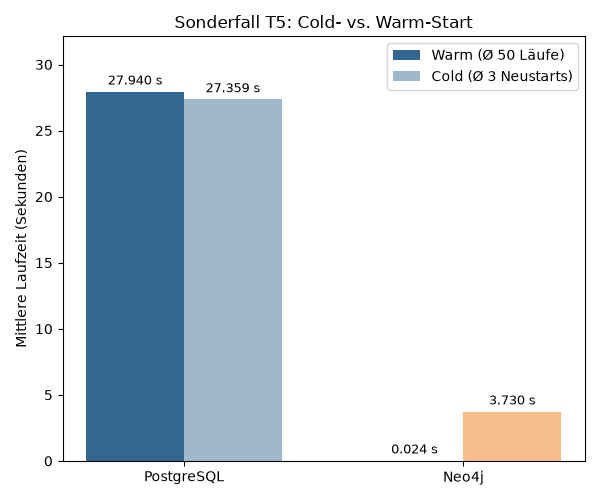
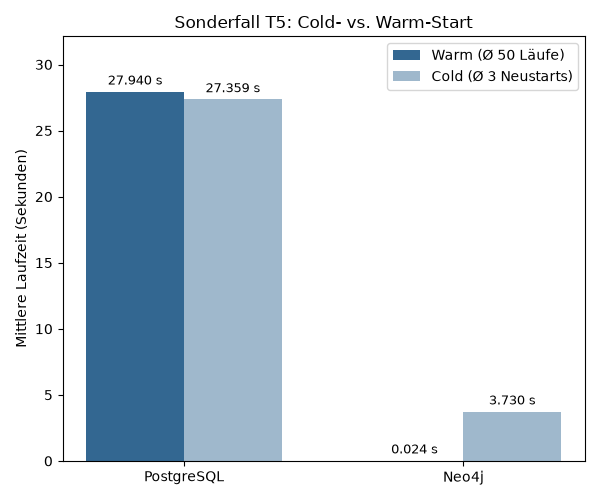
changes latex

Changed region(s): [[0.75, 0.81, 0.96, 0.93]]

diff --git a/benchmark/plot_results.py b/benchmark/plot_results.py
@@ -269,8 +269,13 @@ def plot_t5_cold_vs_warm() -> None:
     x = range(len(labels))
     width = 0.35
     fig, ax = plt.subplots(figsize=(6, 5))
-    bars_warm = ax.bar([i - width / 2 for i in x], warm_s, width, label="Warm (Ø 50 Läufe)", color=[PG_COLOR, NEO_COLOR])
-    bars_cold = ax.bar([i + width / 2 for i in x], cold_s, width, label="Cold (Ø 3 Neustarts)", color=["#9fb8cc", "#f4bd8a"])
+    # Hier EINE Farbe pro Balkengruppe (warm/cold), nicht pro System - sonst
+    # zeigt die Legende nur die erste Farbe einer Gruppe an und der zweite
+    # Balken (z.B. Neo4j in Orange) taucht scheinbar "ohne Legende" auf. Die
+    # Systeme werden stattdessen schon ueber die X-Achsen-Beschriftung
+    # unterschieden.
+    bars_warm = ax.bar([i - width / 2 for i in x], warm_s, width, label="Warm (Ø 50 Läufe)", color=PG_COLOR)
+    bars_cold = ax.bar([i + width / 2 for i in x], cold_s, width, label="Cold (Ø 3 Neustarts)", color="#9fb8cc")
     ax.set_xticks(list(x))
     ax.set_xticklabels(labels)
     ax.set_ylabel("Mittlere Laufzeit (Sekunden)")
